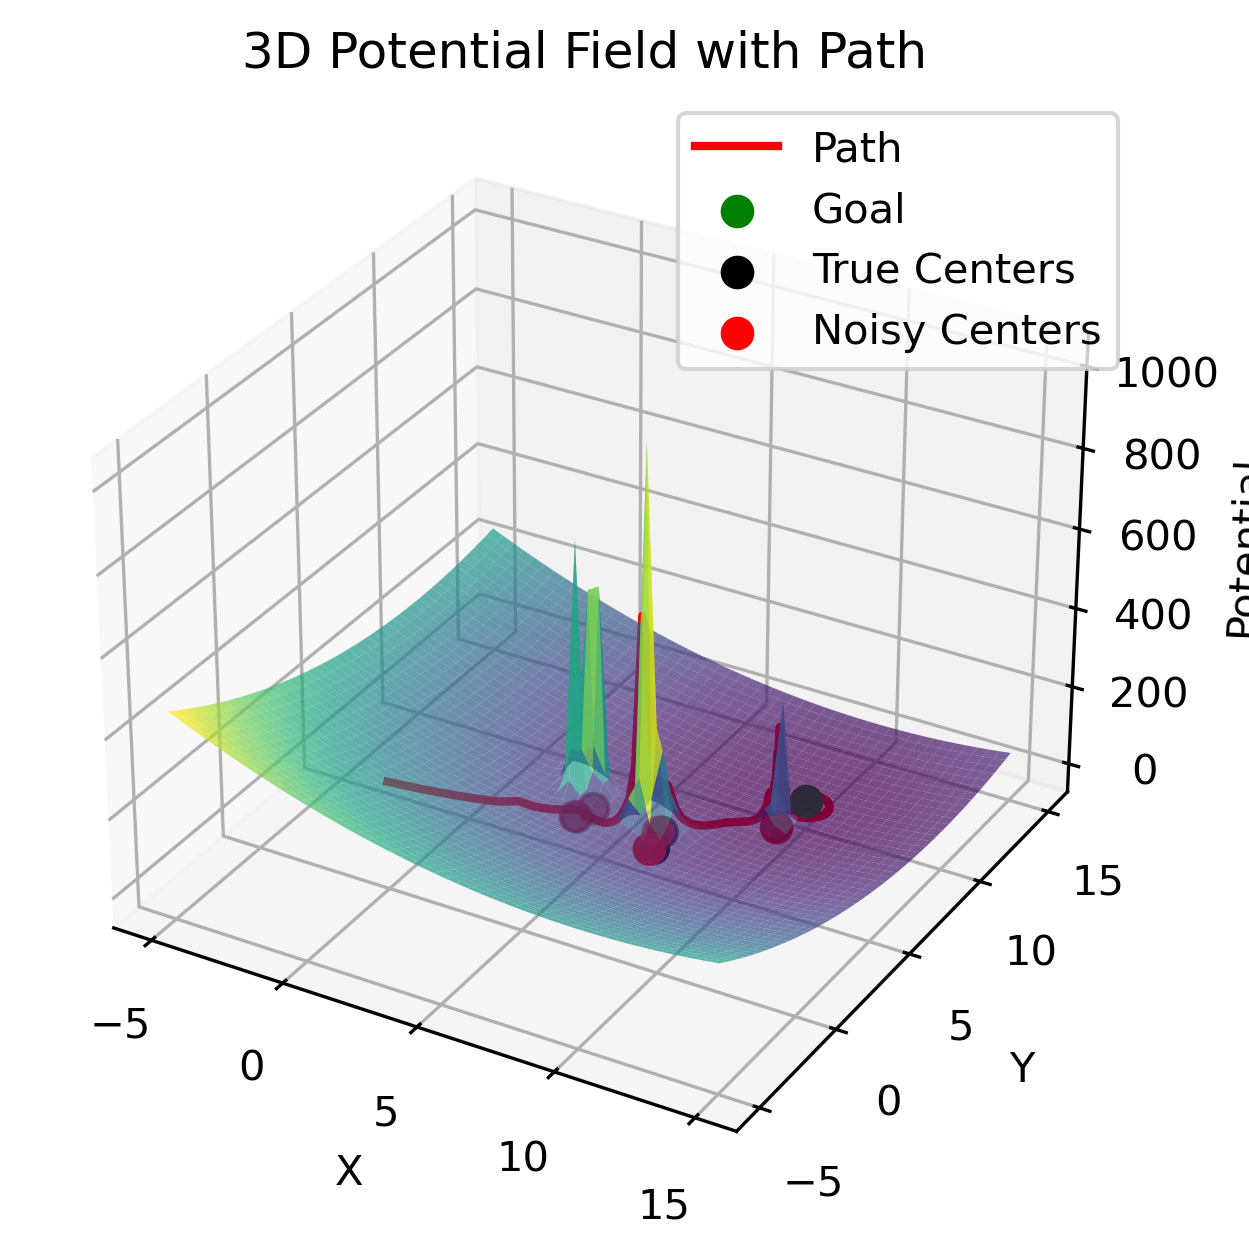
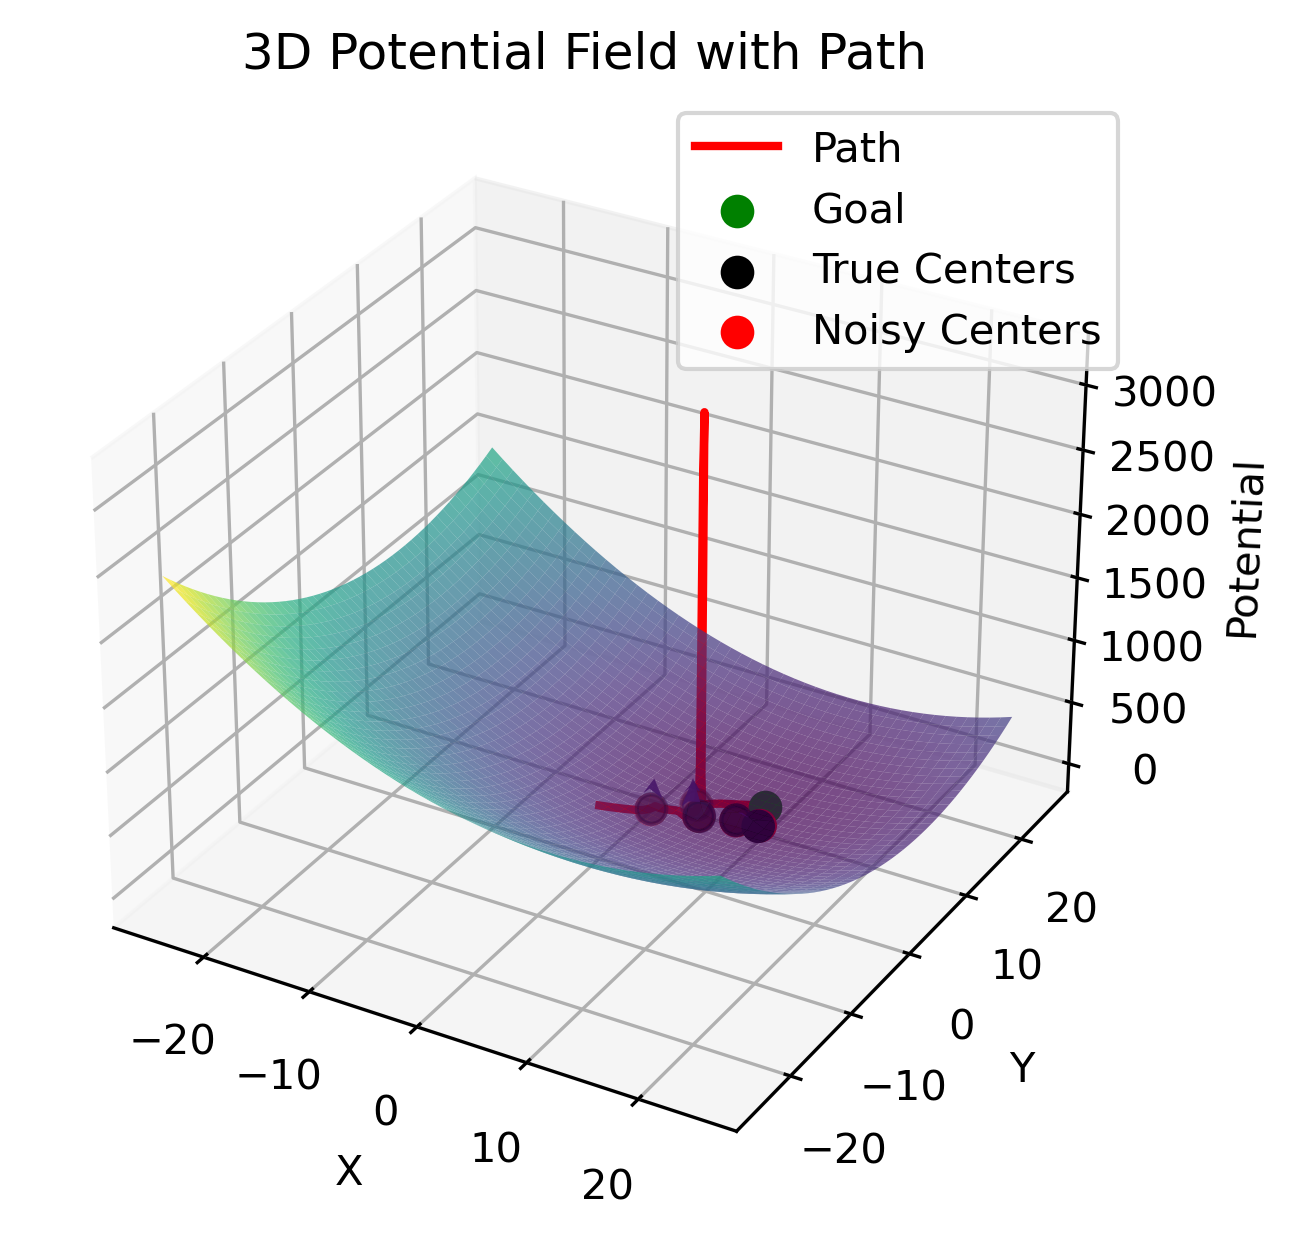
animation is added

diff --git a/local_potential_field_demo_dynamic_animation.py b/local_potential_field_demo_dynamic_animation.py
@@ -1,0 +1,256 @@
+"""
+Local Potential-Field Path Planning (elliptical obstacles)
+
+Run to plot a local path from start to goal around elliptical obstacles 
+using an attractive + repulsive potential field.
+"""
+
+import numpy as np
+import matplotlib.pyplot as plt
+from matplotlib.patches import Ellipse
+import matplotlib.animation as animation
+
+# ===============================
+# INITIAL SETUP
+# ===============================
+q_goal = np.array([10, 10])
+q = np.array([0.0, 0.0])
+
+obstacles_true = np.array([[3, 3.5],
+                           [6, 7],
+                           [9, 9],
+                           [8, 4],
+                           [5, 5]])
+
+sigma = 0.1
+obstacles_noisy = obstacles_true + np.random.normal(0, sigma, obstacles_true.shape)
+
+obstacle_speeds = np.array([[0.1, 0.2],
+                            [-0.2, -0.1],
+                            [0.1, -0.1],
+                            [-0.1, 0.1],
+                            [0.2, 0.1]])
+
+obstacle_speeds = obstacle_speeds * 10
+
+k_att, k_rep, d0, dt = 2.0, 10.0, 2.0, 0.01
+max_rep_force = 14.0
+
+path_data = [q.copy()]
+
+# Ellipse shape parameters
+a0 = 2.0
+b0 = 1.0
+alpha = 1.2
+beta  = 0.3
+
+sizes = np.array([1.0, 1.3, 0.8, 1.6, 1.1])
+a_base = a0 * sizes
+b_base = b0 * sizes
+
+# ===============================
+# FORCE FUNCTIONS
+# ===============================
+
+def attractive_force(q, q_goal):
+    return -k_att * (q - q_goal)
+
+def repulsive_force(q, obstacles_noisy, obstacle_speeds):
+    F_rep_total = np.zeros(2)
+
+    for i, obs in enumerate(obstacles_noisy):
+        vx, vy = obstacle_speeds[i]
+        vmag = np.sqrt(vx**2 + vy**2)
+
+        theta = np.arctan2(vy, vx + 1e-12)
+
+        a = a_base[i] + alpha * vmag
+        b = b_base[i] + beta * vmag
+
+        c, s = np.cos(theta), np.sin(theta)
+        R = np.array([[c, s],
+                      [-s, c]])
+
+        Q0 = np.diag([1/a**2, 1/b**2])
+        Q  = R @ Q0 @ R.T
+
+        v = q - obs
+        dE = np.sqrt(float(v.T @ Q @ v) + 1e-12)
+
+        if dE < d0:
+            F_mag = k_rep * (1/dE - 1/d0) * (1/dE**2)
+            grad = Q @ (q - obs) / (dE + 1e-12)
+            F_rep = F_mag * grad
+
+            # Limit force
+            if np.linalg.norm(F_rep) > max_rep_force:
+                F_rep = F_rep / np.linalg.norm(F_rep) * max_rep_force
+        else:
+            F_rep = np.zeros(2)
+
+        F_rep_total += F_rep
+
+    return F_rep_total
+
+def potential(q, q_goal, obstacles_noisy, obstacle_speeds):
+    U_rep_total = 0
+    U_att = 0.5 * k_att * np.linalg.norm(q - q_goal)**2
+    
+    for i, obs in enumerate(obstacles_noisy):
+        vx, vy = obstacle_speeds[i]
+        vmag = np.sqrt(vx**2 + vy**2) 
+        theta = np.arctan2(vy, vx + 1e-12)
+        a = a_base[i] + alpha * vmag 
+        b = b_base[i] + beta  * vmag 
+        c, s = np.cos(theta), np.sin(theta)
+        R = np.array([[c, s],
+                      [-s,  c]])
+        Q0 = np.diag([1/a**2, 1/b**2])
+        Q = R @ Q0 @ R.T
+        v = q - obs
+        dE = np.sqrt(float(v.T @ Q @ v) + 1e-12)
+        if dE < 1e-6:  # avoid division by zero
+            dE = 1e-6
+        U_rep = 0.5 * k_rep * (1/dE - 1/d0)**2 if dE < d0 else 0
+        U_rep_total += U_rep
+    return U_att + U_rep_total
+
+def total_force(q, q_goal, obstacles_noisy, obstacle_speeds):
+    return attractive_force(q, q_goal) + repulsive_force(q, obstacles_noisy, obstacle_speeds)
+
+# ===============================
+# ANIMATION SETUP
+# ===============================
+
+fig, ax = plt.subplots(figsize=(8, 8))
+ax.set_xlim(-5, 15)
+ax.set_ylim(-5, 15)
+ax.set_title("Dynamic Obstacle Avoidance Animation")
+
+# ----- BACKGROUND POTENTIAL FIELD -----
+x_range = np.linspace(-5, 15, 60)
+y_range = np.linspace(-5, 15, 60)
+X, Y = np.meshgrid(x_range, y_range)
+Z = np.zeros_like(X)
+U = np.zeros_like(X)
+V = np.zeros_like(X)
+
+for i in range(X.shape[0]):
+    for j in range(X.shape[1]):
+        pos = np.array([X[i,j], Y[i,j]])
+
+        # calculate potentia; for each frame
+        Z[i,j] = potential(pos, q_goal, obstacles_noisy, obstacle_speeds)
+
+        # force field
+        Fx, Fy = total_force(pos, q_goal, obstacles_noisy, obstacle_speeds)
+        U[i,j] = Fx
+        V[i,j] = Fy
+
+# draw the potential field
+contour_bg = ax.contourf(X, Y, Z, levels=80, cmap='viridis', alpha=0.6)
+
+# COLORBAR
+cbar = fig.colorbar(contour_bg, ax=ax, fraction=0.046, pad=0.04)
+cbar.set_label("Potential Energy")
+
+# normalize quiver vectors
+mag = np.sqrt(U**2 + V**2) + 1e-12
+U_norm = U / mag
+V_norm = V / mag
+
+# add quiver field
+quiver_bg = ax.quiver(X, Y, U_norm, V_norm, color='white', alpha=0.6)
+
+path_line, = ax.plot([], [], 'r-', linewidth=2)
+robot_dot, = ax.plot([], [], 'ro', markersize=6)
+
+true_scatter = ax.scatter([], [], c='black', s=40)
+noisy_scatter = ax.scatter([], [], c='red', s=40)
+
+goal_dot, = ax.plot(q_goal[0], q_goal[1], 'go', markersize=8, label="Goal")
+
+ellipse_patches = []
+
+def init():
+    path_line.set_data([], [])
+    robot_dot.set_data([], [])
+    true_scatter.set_offsets(np.empty((0, 2)))
+    noisy_scatter.set_offsets(np.empty((0, 2)))
+    return path_line, robot_dot, true_scatter, noisy_scatter, goal_dot
+
+
+# ===============================
+# UPDATE FUNCTION
+# ===============================
+
+def update(frame):
+    global q
+
+    # --- 1) Move obstacles ---
+    obstacles_true[:,0] += obstacle_speeds[:,0] * dt
+    obstacles_true[:,1] += obstacle_speeds[:,1] * dt
+
+    # --- 2) Noise sample ---
+    obstacles_noisy[:] = obstacles_true + np.random.normal(0, sigma, obstacles_true.shape)
+
+    # --- 3) Robot force ---
+    F = total_force(q, q_goal, obstacles_noisy, obstacle_speeds)
+
+    # --- 4) Robot motion ---
+    q[:] = q + F * dt
+    path_data.append(q.copy())
+
+    # --- 5) Update path ---
+    arr = np.array(path_data)
+    path_line.set_data(arr[:,0], arr[:,1])
+    robot_dot.set_data(q[0], q[1])
+
+    # --- 6) Obstacle scatter ---
+    true_scatter.set_offsets(obstacles_true)
+    noisy_scatter.set_offsets(obstacles_noisy)
+
+    # --- 7) Remove old ellipses ---
+    for e in ellipse_patches:
+        e.remove()
+    ellipse_patches.clear()
+
+    # --- 8) Draw ellipses (WITHOUT d0 scaling!) ---
+    for i, obs in enumerate(obstacles_true):
+        vx, vy = obstacle_speeds[i]
+        vmag = np.sqrt(vx**2 + vy**2)
+        theta = np.degrees(np.arctan2(vy, vx))
+
+        a = a_base[i] + alpha * vmag
+        b = b_base[i] + beta * vmag
+
+        ellipse = Ellipse(
+            xy=(obs[0], obs[1]),
+            width=2*a,
+            height=2*b,
+            angle=theta,
+            edgecolor='black',
+            facecolor='cyan',
+            alpha=0.15,       # şeffaflık
+            linestyle='--',
+            linewidth=1.2
+        )
+        ax.add_patch(ellipse)
+        ellipse_patches.append(ellipse)
+
+    return path_line, robot_dot, true_scatter, noisy_scatter, goal_dot
+
+
+# ===============================
+# RUN ANIMATION
+# ===============================
+ani = animation.FuncAnimation(
+    fig,
+    update,
+    frames=400,
+    init_func=init,
+    interval=40,
+    blit=False
+)
+
+plt.show()

diff --git a/local_potential_field_demo_dynamic.py b/local_potential_field_demo_dynamic.py
@@ -24,6 +24,7 @@ obstacles_noisy = obstacles_true + np.random.normal(0, sigma, obstacles_true.sha
 
 # obstacle speeds
 obstacle_speeds = np.array([[0.1, 0.2], [-0.2, -0.1], [0.1, -0.1], [-0.1, 0.1], [0.2, 0.1]])
+obstacle_speeds = obstacle_speeds * 5
 
 # APF parameters
 k_att, k_rep, d0, dt = 2.0, 10.0, 2.0, 0.01
@@ -82,7 +83,10 @@ def repulsive_force(q, obstacles_noisy, obstacle_speeds):
         # elliptical distance
         dE = np.sqrt(float((q - obs).T @ Q @ (q - obs)) + 1e-12)
 
-        if dE < d0:
+        # dynamic avoidance boundary
+        d0_i = 1.2 * max(a, b)
+
+        if dE < d0_i:
             F_mag = k_rep * (1/dE - 1/d0) * (1/dE**2)
             # yön vektörü (normalize edilmiş fark)
             grad_Dq = Q @ (q - obs) / (dE + 1e-12)
@@ -95,7 +99,6 @@ def repulsive_force(q, obstacles_noisy, obstacle_speeds):
             F_rep = np.array([0.0, 0.0])
         F_rep_total += F_rep
     return F_rep_total
-
 
 def potential(q, q_goal, obstacles_noisy, obstacle_speeds):
     U_rep_total = 0
@@ -114,12 +117,15 @@ def potential(q, q_goal, obstacles_noisy, obstacle_speeds):
         Q = R @ Q0 @ R.T
         v = q - obs
         dE = np.sqrt(float(v.T @ Q @ v) + 1e-12)
+        
+        # dynamic avoidance boundary
+        d0_i = 1.2 * max(a, b)
+
         if dE < 1e-6:  # avoid division by zero
             dE = 1e-6
-        U_rep = 0.5 * k_rep * (1/dE - 1/d0)**2 if dE < d0 else 0
+        U_rep = 0.5 * k_rep * (1/dE - 1/d0)**2 if dE < d0_i else 0
         U_rep_total += U_rep
     return U_att + U_rep_total
-
 
 def total_force(q, q_goal, obstacles_noisy, obstacle_speeds):
     """
@@ -129,8 +135,8 @@ def total_force(q, q_goal, obstacles_noisy, obstacle_speeds):
     F_rep = repulsive_force(q, obstacles_noisy, obstacle_speeds)
     return F_att + F_rep
 
-x_range = np.linspace(-5, 15, 50) #-5 ile 15 arasinda 50 esit parca olustur.
-y_range = np.linspace(-5, 15, 50)
+x_range = np.linspace(-25, 25, 50) #-5 ile 15 arasinda 50 esit parca olustur.
+y_range = np.linspace(-25, 25, 50)
 X, Y = np.meshgrid(x_range, y_range)
 Z = np.zeros_like(X)
 U = np.zeros_like(X)
